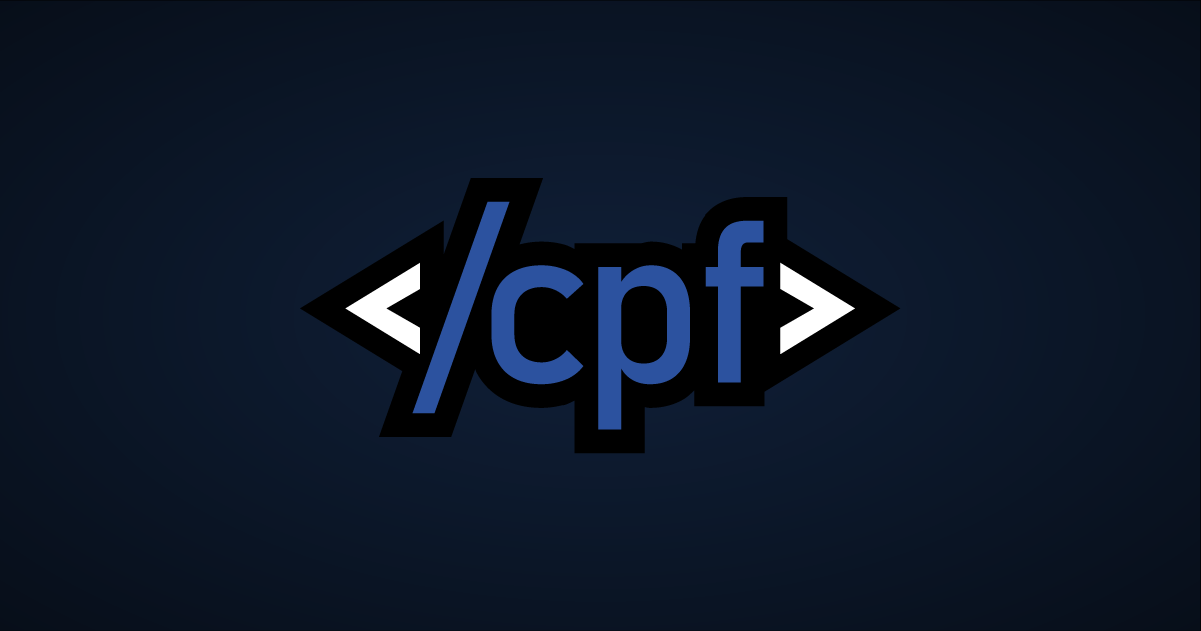
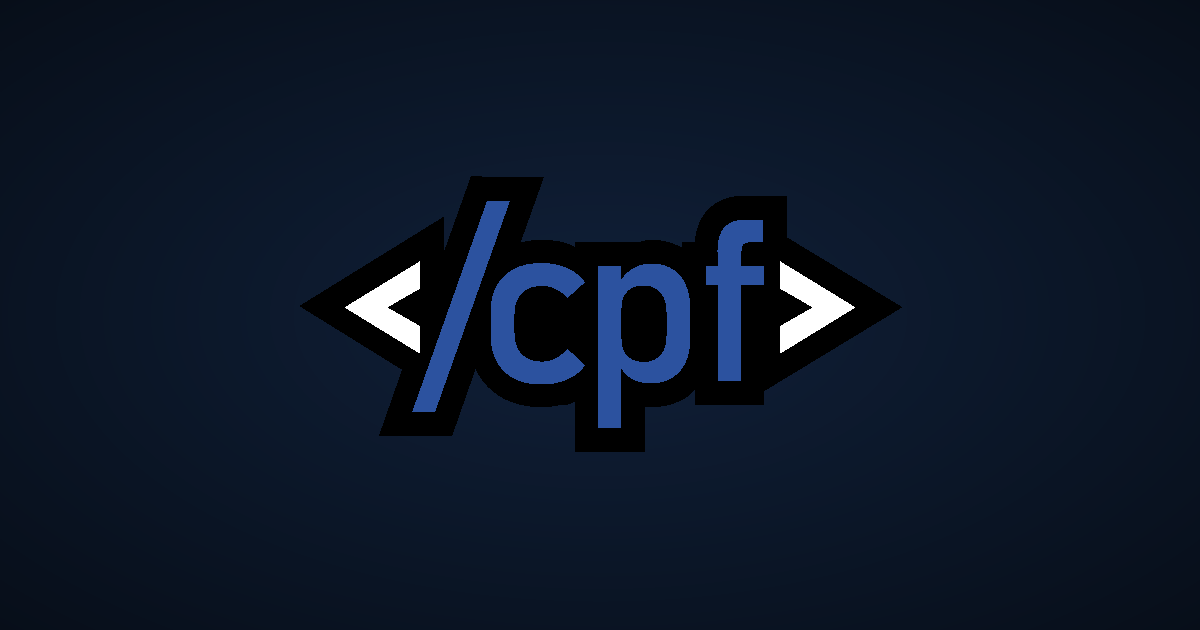
Add and update Open Graph and Twitter images
Added retina versions of OG and Twitter images, updated existing PNGs, and improved meta tags in index.html for better social sharing. Included OG image export guidelines in OG-IMAGE-EXPORTS.md.

diff --git a/index.html b/index.html
@@ -6,15 +6,25 @@
     <meta name="viewport" content="width=device-width,initial-scale=1" />
     <title>Club de Programación FIUNA</title>
     <meta name="description" content="Por amor al código y la innovación." />
+    <link rel="canonical" href="https://cpfiuna.io/" />
     <meta name="author" content="/cpf" />
     <meta property="og:site_name" content="Club de Programación FIUNA" />
     <meta property="og:title" content="Club de Programación FIUNA" />
     <meta property="og:description" content="Comunidad de estudiantes apasionados por el código." />
     <!-- Platform Open Graph / social image (place file under `public/` or at site root) -->
     <meta property="og:image" content="/og-image.png" />
+    <meta property="og:image:alt" content="Club de Programación FIUNA — logo and slogan" />
+    <meta property="og:image:width" content="1200" />
+    <meta property="og:image:height" content="630" />
     <!-- Twitter/X specific image -->
     <meta name="twitter:image" content="/og-twitter.png" />
+    <meta name="twitter:image:alt" content="Club de Programación FIUNA — logo and slogan" />
     <meta name="twitter:card" content="summary_large_image" />
+    <meta name="twitter:title" content="Club de Programación FIUNA" />
+    <meta name="twitter:description" content="Por amor al código y la innovación." />
+    <meta name="twitter:image:width" content="1200" />
+    <meta name="twitter:image:height" content="675" />
+    <meta property="og:url" content="https://cpfiuna.io/" />
     <meta name="theme-color" content="#0a0a0a" />
     <link rel="icon" type="image/x-icon" href="/favicon.ico" />
     <link rel="apple-touch-icon" href="/favicon.ico" />

diff --git a/OG-IMAGE-EXPORTS.md b/OG-IMAGE-EXPORTS.md
@@ -1,0 +1,49 @@
+OG image export checklist
+=========================
+
+Filenames to use (place in `public/` or site root):
+- `og-image.png`        — default Open Graph image (recommended master for most platforms)
+- `og-twitter.png`      — Twitter / X large summary card image
+
+Primary recommended sizes
+- `og-image.png` (1x): 1200 × 630 px (1.91:1) — good default for Facebook, LinkedIn, WhatsApp, Slack, Discord
+- `og-twitter.png` (1x): 1200 × 675 px (16:9) — preferred for Twitter/X large summary card
+
+Retina / hi-DPI masters (keep for exporting crisp assets)
+- `og-image@2x` master: 2400 × 1260 px
+- `og-twitter@2x` master: 2400 × 1350 px
+
+File formats
+- Use sRGB color profile.
+- PNG: for images with text, logos, or flat-color graphics (recommended)
+- JPEG: for photographs (export at high quality)
+- Avoid SVG as the only OG image — many social crawlers prefer PNG/JPEG.
+
+Safe area and layout
+- Keep logos and text within the central 80% area — leave ~10% padding on each edge.
+- Use clear, large type (≥24px at 1200px width) so text remains legible after cropping/scaling.
+
+Illustrator export steps (quick)
+1. Create artboard at the correct pixel size (e.g., 1200 × 630 px). Set raster effects to 300 ppi.
+2. Work in sRGB color space: `File > Document Color Mode > RGB Color` and use `Edit > Assign Profile` if necessary.
+3. Keep important content inside a centered guide (10% margin).
+4. When ready to export: `File > Export > Export for Screens` and choose PNG 1x and PNG 2x (for retina). Or `File > Export > Export As...` with `Use Artboards` and `PNG`.
+5. For JPEG exports use Quality 80–90% for a good tradeoff.
+
+File size
+- Aim for < 1–2 MB if possible. If images are large, compress with a lossless tool (pngquant, oxipng) or JPEG quality 85.
+
+Meta tags (already added to `index.html`)
+- `og:image` → `/og-image.png`
+- `og:image:alt` → short description (used for accessibility)
+- `twitter:image` → `/og-twitter.png`
+- `twitter:image:alt` → short description
+
+Notes
+- Replace `https://example.com/` in `og:url` and `<link rel="canonical">` with your real production URL before deploying.
+- Test your images with social debuggers:
+  - Facebook Sharing Debugger: https://developers.facebook.com/tools/debug/
+  - Twitter Card Validator (if available) / X: https://cards-dev.twitter.com/validator
+  - LinkedIn Post Inspector: https://www.linkedin.com/post-inspector/
+
+If you want, I can create placeholder PNGs (optimized) and add them to `public/` so you can replace them with final exports.
